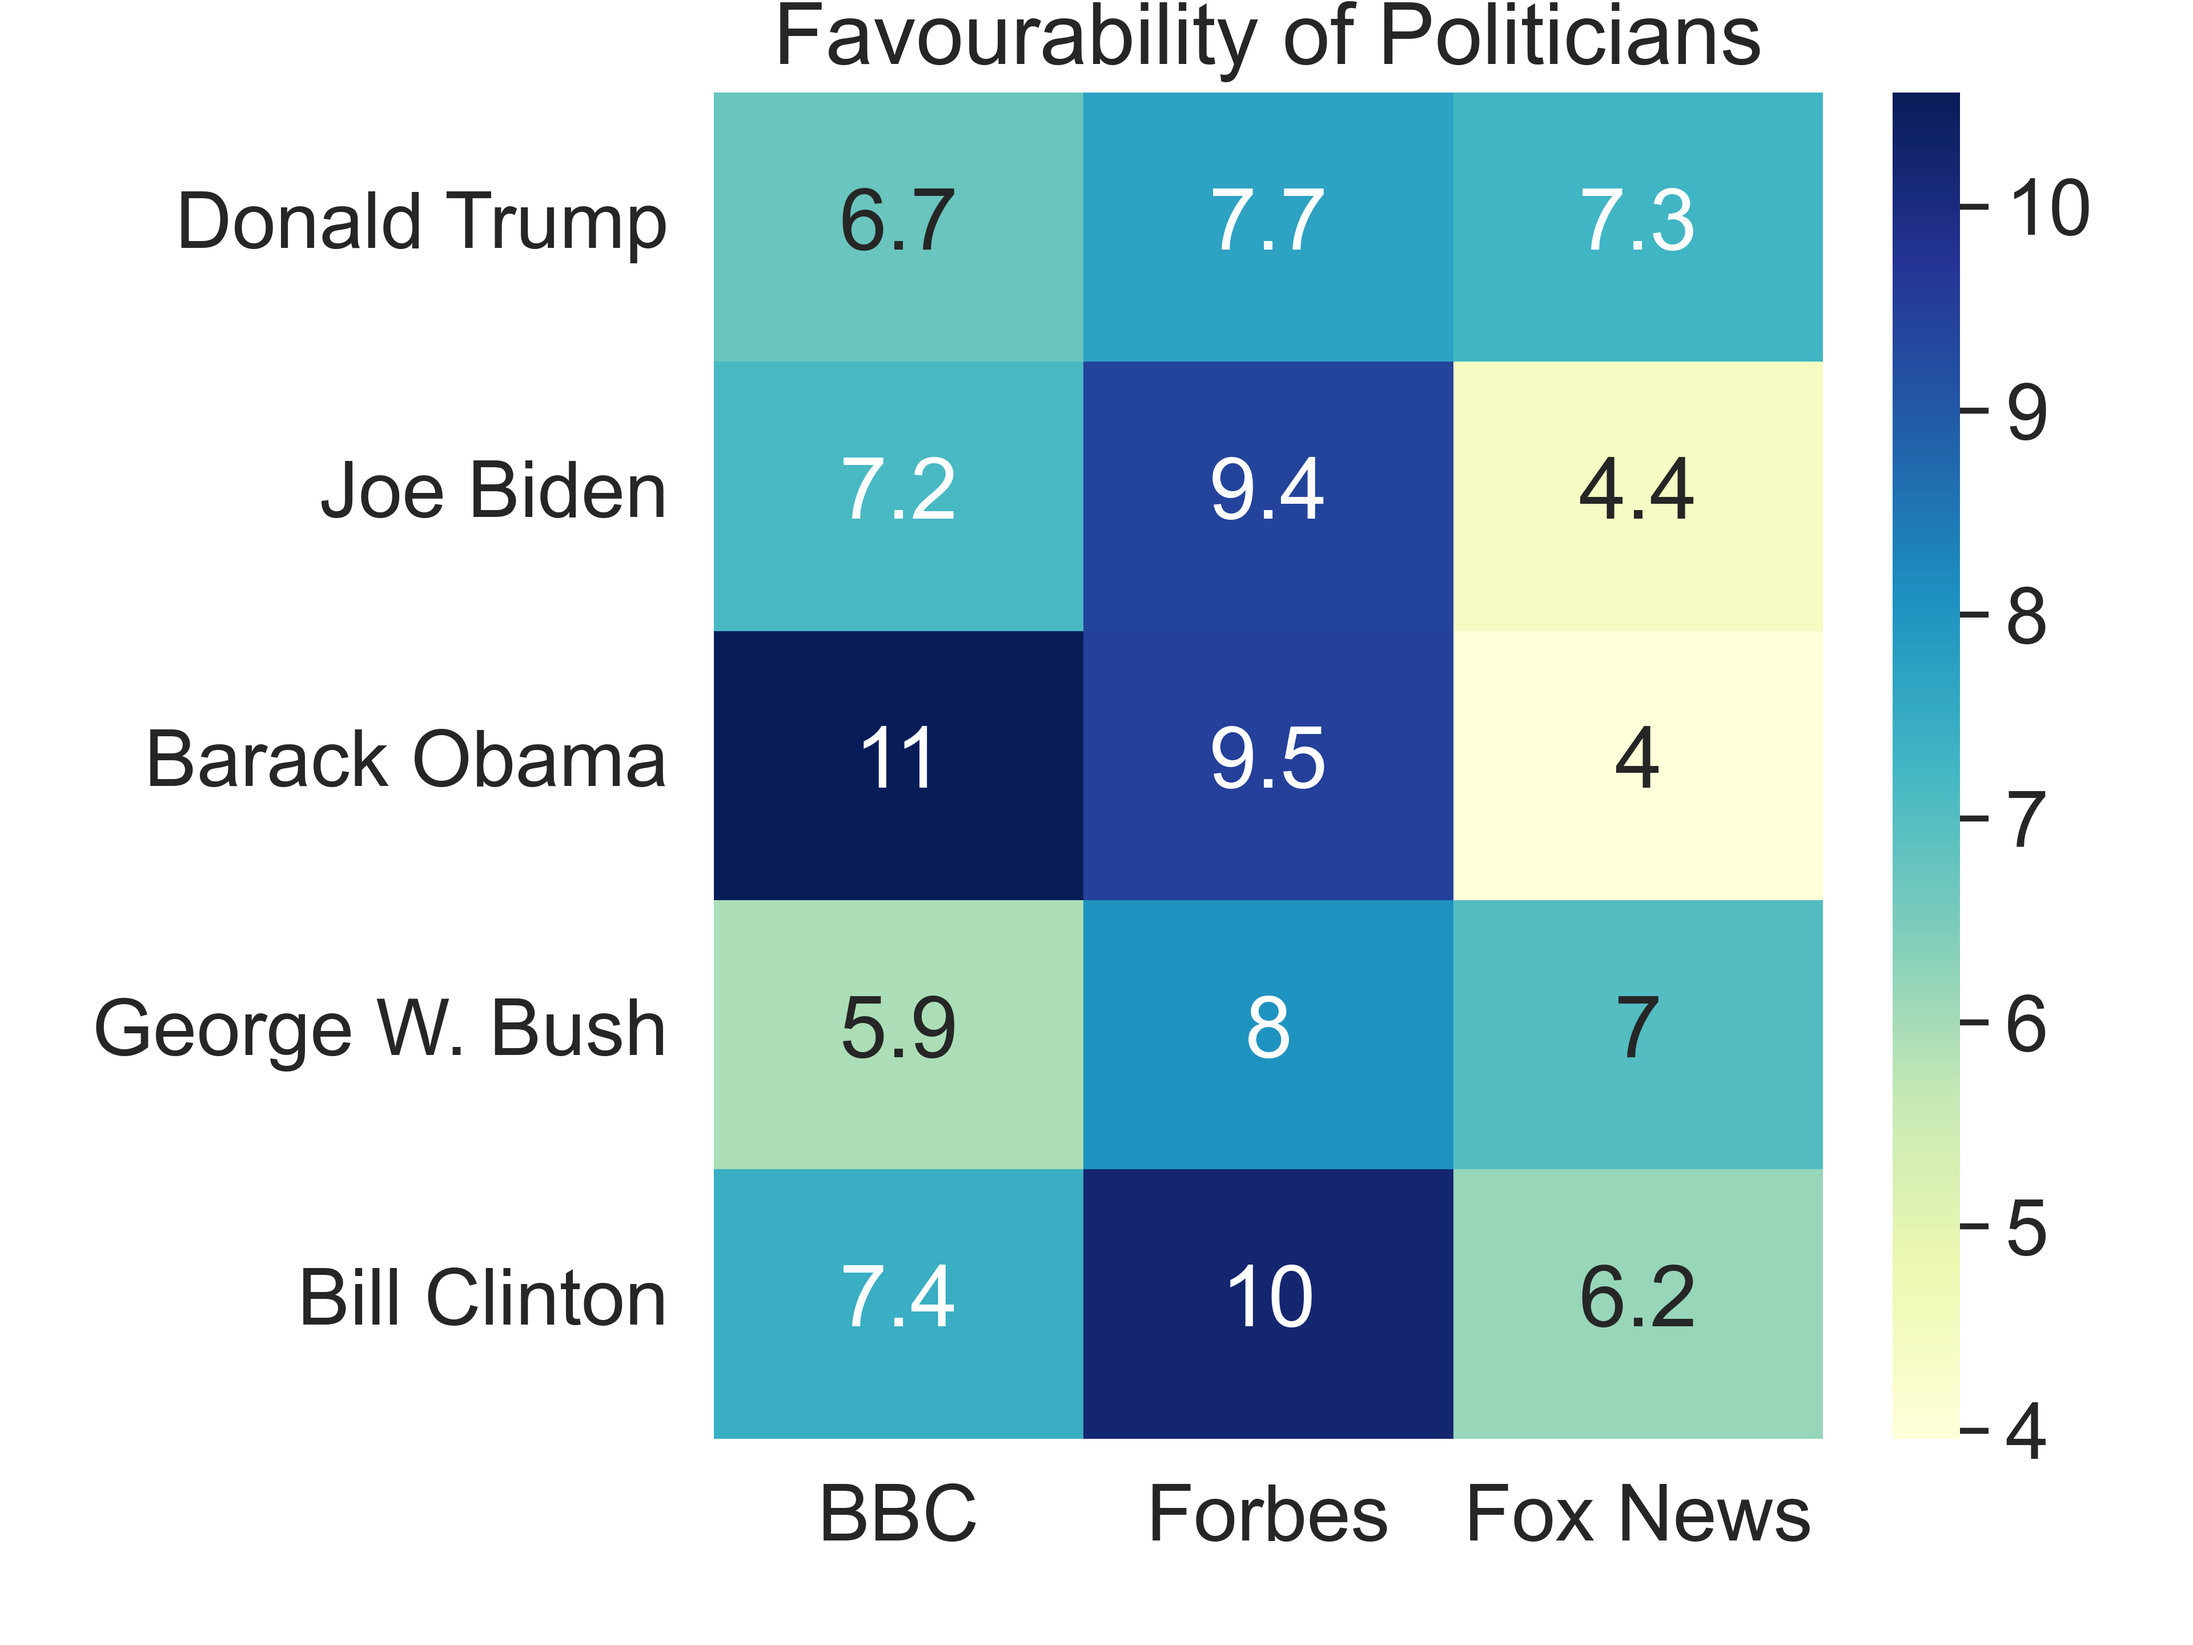
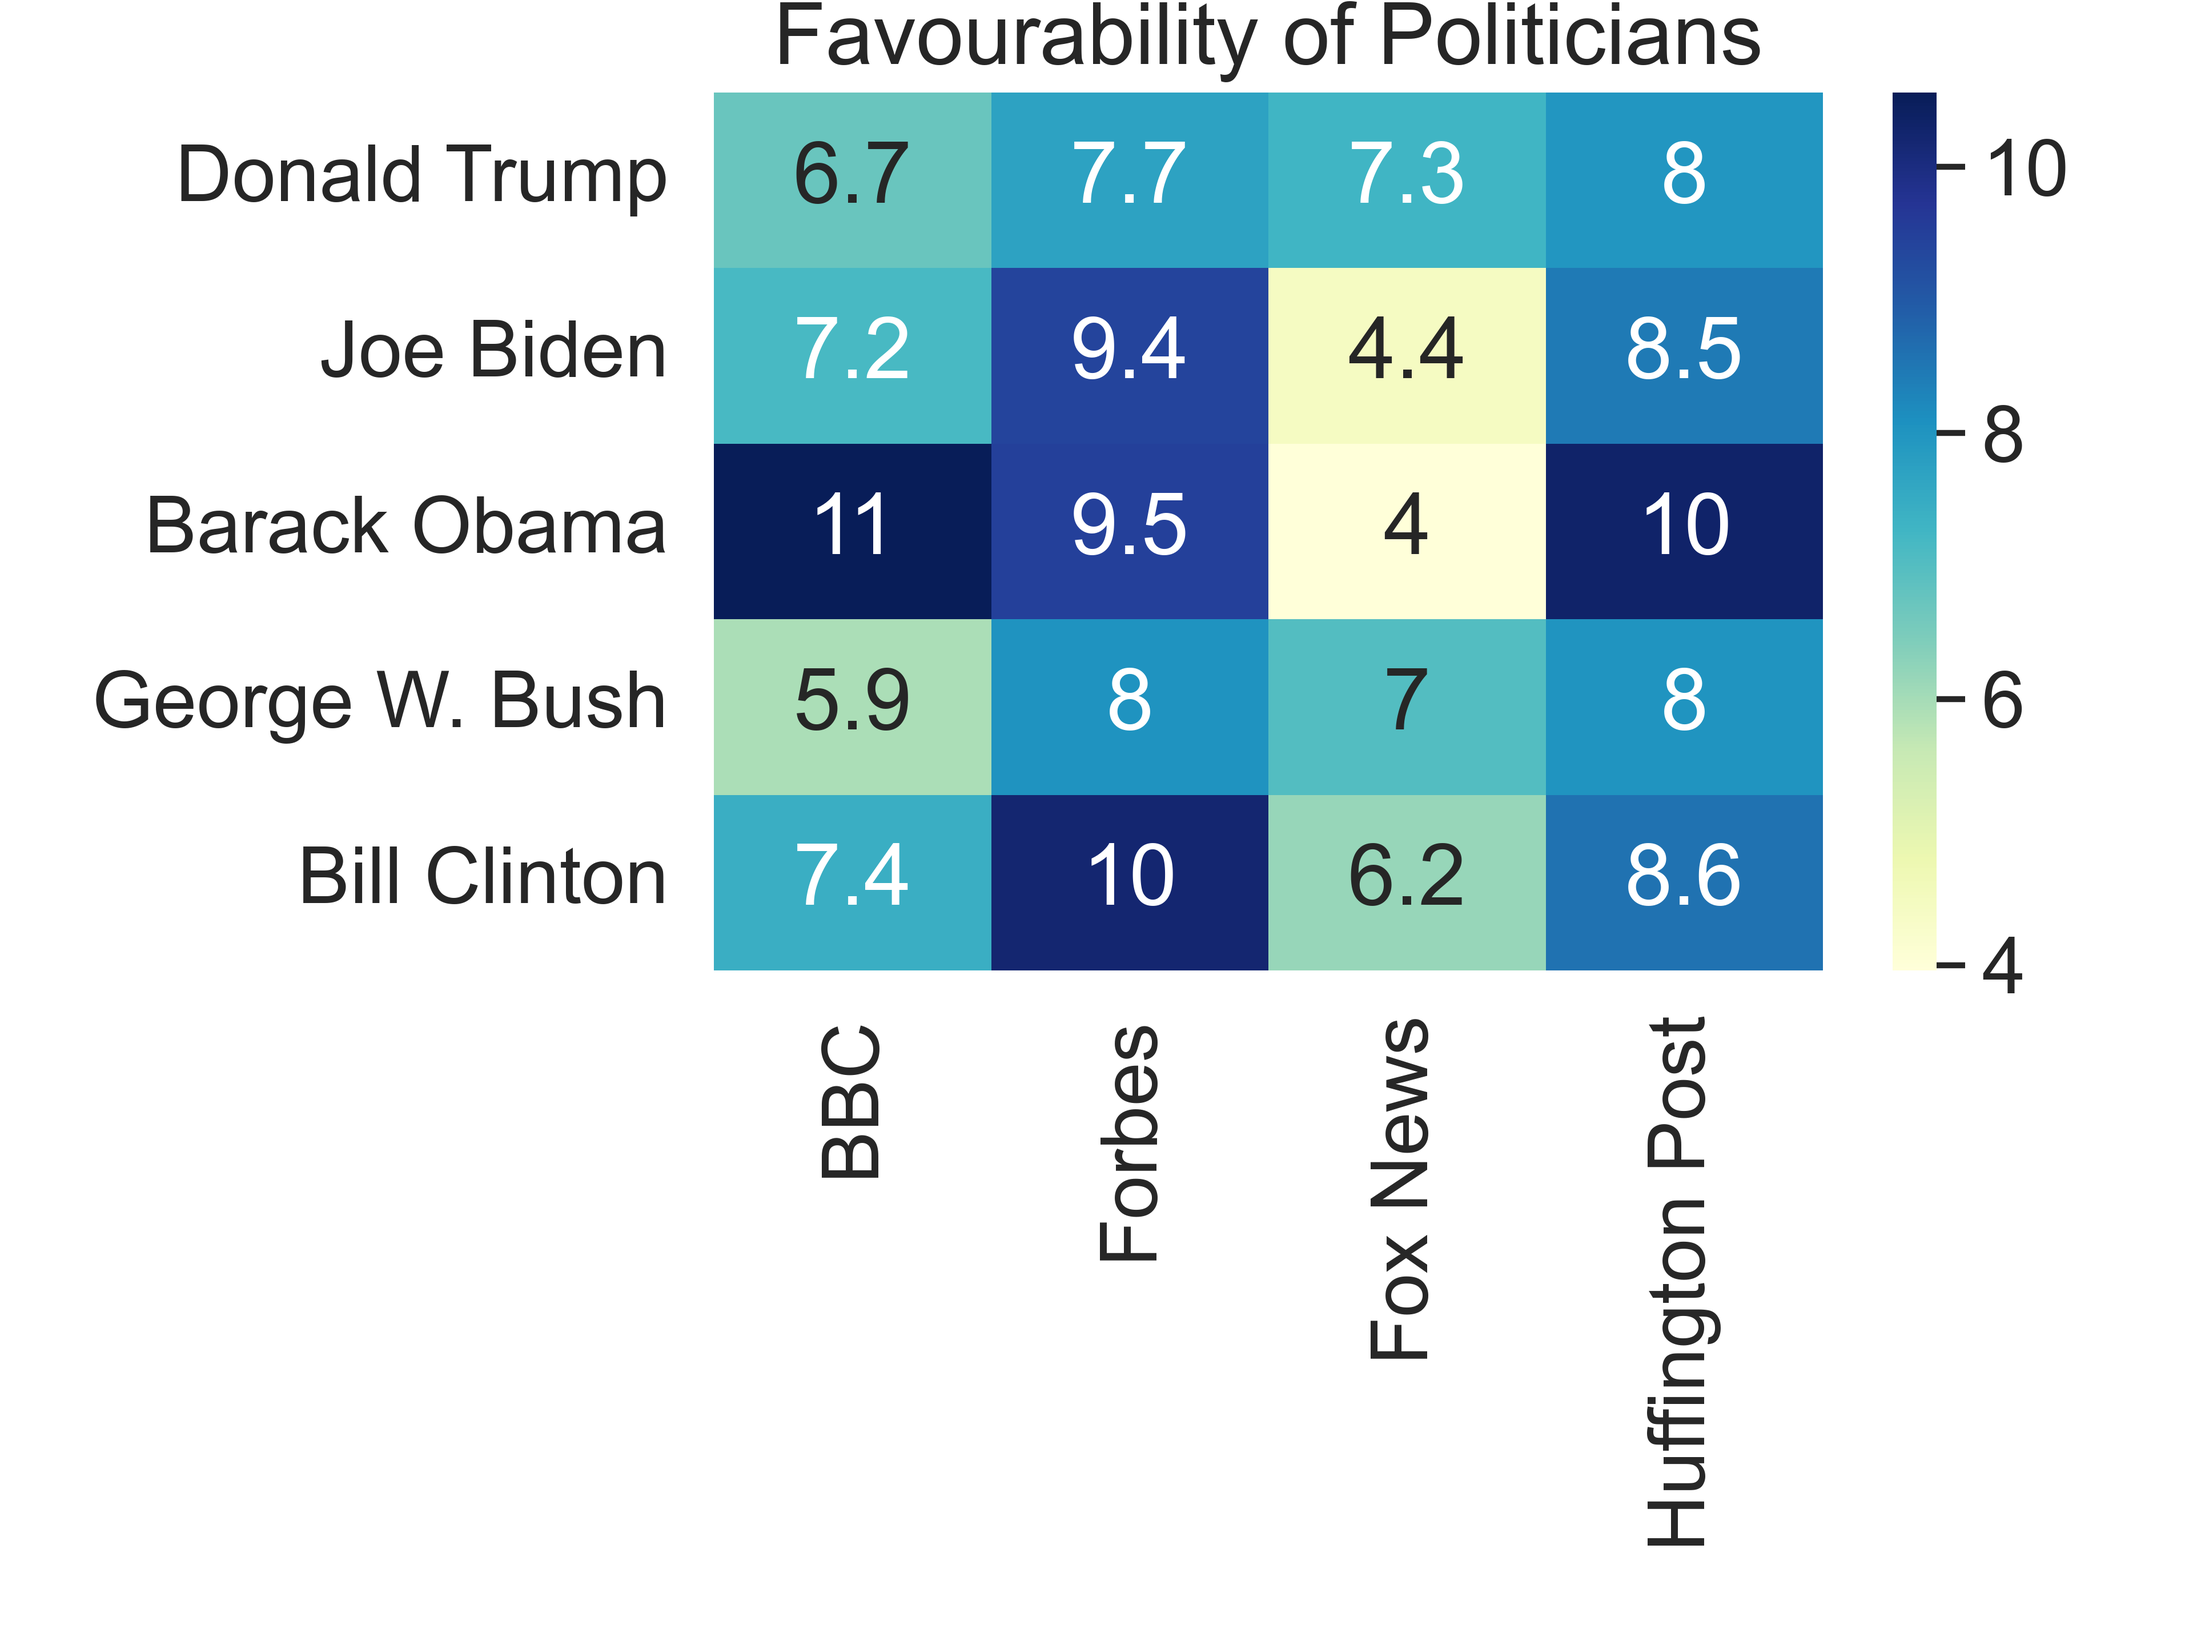
idk some trial

diff --git a/data_to_heatmap.py b/data_to_heatmap.py
@@ -2,21 +2,20 @@ from csv import reader
 from vaderSentiment.vaderSentiment import SentimentIntensityAnalyzer
 average=0
 num=0
-presidents=["fox_news_on_clinton.csv"]
-for i in presidents:
-    with open(i,'r')as read_obj:
-        csv_reader=reader(read_obj)
-        for row in csv_reader:
-            num+=1
-            for i in row:
-                sid_obj = SentimentIntensityAnalyzer()
-                sentiment_dict = sid_obj.polarity_scores(i)
-                average+=(sentiment_dict['pos']*10)
-        f=round(average/10,2)
-        with open("fox_news.txt", "a") as file:
-            file.write('\n')
-            file.write('Bill Clinton'+str(f)+'%')
-        file.close()
+with open("washington_post_on_trump.csv",'r')as read_obj:
+    csv_reader=reader(read_obj)
+    print(csv_reader)
+    for row in csv_reader:
+        num+=1
+        for i in row:
+            sid_obj = SentimentIntensityAnalyzer()
+            sentiment_dict = sid_obj.polarity_scores(i)
+            average+=(sentiment_dict['pos']*10)
+    f=round(average/10,2)
+    with open("washington_post.txt", "a") as file:
+        file.write('\n')
+        file.write('Donald Trump'+str(f)+'%')
+    file.close()
 
 
 

diff --git a/heatmap.py b/heatmap.py
@@ -11,8 +11,9 @@ for line in file:
     bbc = separated[1].strip("%")
     forbes = separated[2].strip("\n")
     fox_news=separated[3].strip('%')
+    huff_post=separated[4]
     print(fox_news)
-    list = [float(bbc), float(forbes.strip("%")),float(fox_news.strip('%'))]
+    list = [float(bbc), float(forbes.strip("%")),float(fox_news.strip('%')),float(huff_post)]
     array.append(list)
 print(array)
 file.close()
@@ -21,7 +22,7 @@ file.close()
 df_cm = pd.DataFrame(array)
 
 sn.set(font_scale = 1.5)
-svm = sn.heatmap(df_cm, annot = True, cmap = 'YlGnBu', yticklabels = ["Donald Trump", "Joe Biden", "Barack Obama", "George W. Bush", "Bill Clinton"], xticklabels = ["BBC", "Forbes","Fox News"])
+svm = sn.heatmap(df_cm, annot = True, cmap = 'YlGnBu', yticklabels = ["Donald Trump", "Joe Biden", "Barack Obama", "George W. Bush", "Bill Clinton"], xticklabels = ["BBC", "Forbes","Fox News","Huffington Post"])
 plt.rcParams["figure.autolayout"] = True
 plt.tight_layout()
 plt.title("Favourability of Politicians")
